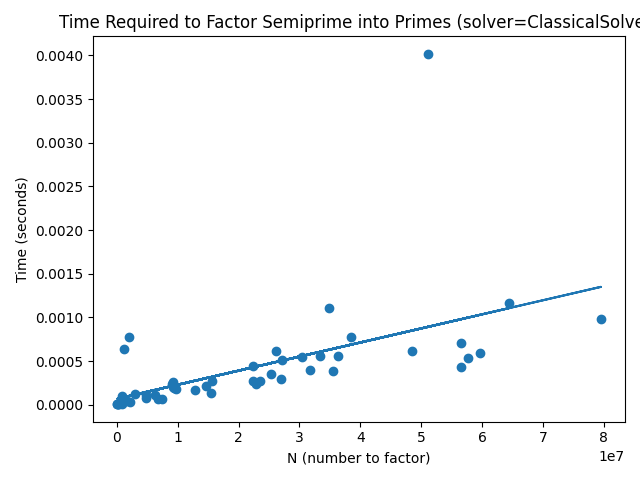
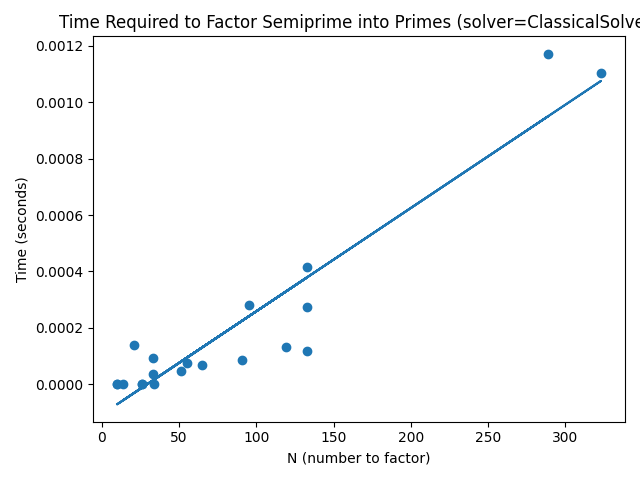
update solvers

diff --git a/src/classical/solver.py b/src/classical/solver.py
@@ -1,22 +1,74 @@
 """ Module for factoring semiprime integers using classical / non-quantum / brute force approach. 
 """
 import time 
-from math import sqrt
+from math import sqrt,gcd
 from base import Base
+import numpy as np 
+from random import randint 
 
 class ClassicalPrimeFactorization(Base):
     def __init__(self, name: str = 'ClassicalSolver', verbose: bool = False):
         super().__init__(name, verbose)
 
-    def factor(self, N):
-        """ Calculate prime factors of N """
-        start = time.time() 
-        p, q = None, None
-        for i in range(2, int(sqrt(N)) + 1):
-            if N % i == 0:
-                p = i 
-                q = N // p 
-                end = time.time()
-                elapsed = round(end - start, 6)
-                return {'N': N, 'factors': {'p': p, 'q': q}, 'elapsed_seconds': elapsed}
+    # def factor(self, N):
+    #     """ Calculate prime factors of N """
+    #     start = time.time() 
+    #     p, q = None, None
+    #     for i in range(2, int(sqrt(N)) + 1):
+    #         if N % i == 0:
+    #             p = i 
+    #             q = N // p 
+    #             end = time.time()
+    #             elapsed = round(end - start, 6)
+    #             return {'N': N, 'factors': {'p': p, 'q': q}, 'elapsed_seconds': elapsed}
      
+    def factor(self, N: int = None):
+        """ Classically run shor's algorithm """
+        factors_found = False 
+        start = time.time()
+        if N % 2 == 0: # first simply check if even. 
+            end = time.time() 
+            elapsed = round(end - start, 6)
+            factors = {
+                    'p': 2, 'q': N // 2
+                }
+            factors_found = True 
+
+        attempts = 0
+        while not factors_found:
+            # Continue until solved. 
+            attempts += 1
+            # Get an initial guess g that is coprime to N (gcd is 1)
+            g = randint(3, N-1)
+            while gcd(g, N) != 1:
+                g = randint(3, N-1)
+            self.info(f'attempt={attempts}, g={g}')
+            # Find period r of g^r mod N 
+            # (i.e., r is smallest number such that g^r = 1 (mod N))
+            z = list(range(N))
+            y = [g ** z0 % N for z0 in z]
+            r = z[y[1:].index(1)+1] 
+            self.info(f'r={r}->r/2={r/2.}->g**(r/2.)={g**(r/2.)}')
+            if r % 2 == 0: # continue. if odd, can't use r/2 exponent of g. 
+                # x = g^[r/2] (mod N)
+                x = (g ** (r / 2.)) % N
+                if ((x + 1) % N) != 0: # continue. if = 0, guess another g. 
+                    factors = {
+                        'p': gcd(int(x)+1, N),
+                        'q': gcd(int(x)-1, N)
+                    }
+                    end = time.time()
+                    elapsed = round(end - start, 6)
+                    factors_found = True
+        return {
+            'N': N, 
+            'factors': factors, 
+            'elapsed_seconds': elapsed
+        }
+         
+
+            
+
+
+
+        

diff --git a/src/qskt/qft.py b/src/qskt/qft.py
@@ -2,11 +2,13 @@
 from qiskit import QuantumCircuit
 from math import pi
 from base import Base
+from qiskit.circuit.library import QFT
 
 class QuantumFourierTransform(Base):
 
     def __init__(self, name: str = 'QFT', verbose: bool = False):
         super().__init__(name, verbose=verbose)
+    
 
     def qft_dagger(self, n):
         """Apply N-qubit QFTdagger to the first n qubits of a circuit.
@@ -48,4 +50,33 @@ class QuantumFourierTransform(Base):
         # circuit a name and then return it 
         circuit.name = "QFT†"
         return circuit
+
+    def apply_qft(self, num_qubits: int = 1, use_qiskit_lib: bool = False ):
+        """ This circuit is explained very clearly by Abraham Asfaw in his 
+        lecture at https://www.youtube.com/watch?v=pq2jkfJlLmY.
+        
+        """
+        if use_qiskit_lib:
+            return QFT(num_qubits=num_qubits)
+        circuit = QuantumCircuit(num_qubits)
+        for qubit in range(num_qubits):
+            # For each qubit x_1, x_2, ... x_num_qubits 
+            # apply a hadamard to the qubit
+            circuit.h(qubit)
+            for other_qubit in range(qubit+1, num_qubits):
+                # then apply a series of phases/rotations
+                # using controlled phase / unitary rotation / UROT_k
+                # gate that will apply phase conditionally
+                # depending on control qubit.
+                
+                # apply UROT_k (unitary rotation)
+                circuit.cu1(
+                    pi / (2 ** (other_qubit - qubit)), # phase to apply 
+                    other_qubit, # control qubit
+                    qubit # target qubit 
+                )
+        return circuit
     
+if __name__ == "__main__": 
+    qft = QuantumFourierTransform()
+    qft.apply_qft(num_qubits=4).draw(filename='qft-4-qubits.jpg')

diff --git a/src/qskt/solver.py b/src/qskt/solver.py
@@ -35,22 +35,21 @@ class QiskitShor(Base):
         factor_found = False 
         factors = None 
         start = time.time()
-        if N % 2 == 0:
+        if N % 2 == 0: # handle even N
             attempts = 1
             factors = {'p': 2, 'q': N // 2}
             factor_found = True 
             end = time.time() 
             elapsed = round(end - start, 6)
         
-        np.random.seed(1)
-        while not factor_found:
+        np.random.seed(1) # seed random number generator 
+        while not factor_found: # continue until factor found 
             attempts += 1
-            self.info(f'Attempt: {attempts}')
-            g = randint(2, N)
-            self.info(f'Guessed random initial number g={g} between 1 and N={N}')
-            if gcd(g, N) != 1:
-                self.info(f'gcd(g,N)=gcd({g},{N}) != 1. Retrying.')
-                factors = {'p': g, 'q': N // g}
+            g = randint(2, N)  # 2 inclusive to N exclusive 
+            self.info(f'Attempt={attempts}; guessed g={g}')
+            _gcd = gcd(g, N)
+            if _gcd != 1: 
+                factors = {'p': _gcd, 'q': N // _gcd}
                 factor_found = True 
                 end = time.time() 
                 elapsed = round(end - start, 6)

diff --git a/src/qskt/qpe.py b/src/qskt/qpe.py
@@ -101,6 +101,7 @@ class QuantumPhaseEstimator(Base):
     def c_amodN(self, g: int = None, p: int = None, N: int = None):
         
         """  
+
         To create U^p where U is a unitary operator, we repeat the circuit p times. 
         This is specifically written to achieve controlled multiplication by g mod N.
         Where: 
@@ -112,9 +113,6 @@ class QuantumPhaseEstimator(Base):
         possible values of the power p, we are obtaining an output superposition of all 
         of the corresponding remainder values defined by r = g^p mod m*N, with N statically set as 15. 
         """
-        if gcd(g, N) != 1:
-            raise ValueError(f'g={g} and N={N} not coprime')
-
         # Create a circuit with 4 registers 
         # (a list of instructions bound to 4 registers)
         U = QuantumCircuit(4)

diff --git a/src/main.py b/src/main.py
@@ -75,8 +75,8 @@ if __name__ == "__main__":
     driver = Driver(verbose=True)
     semiprimes_generator = SemiPrimeGenerator()
     semiprimes = semiprimes_generator.get_n_semiprimes(
-        num_semiprimes=50,
-        upper_bound=10000
+        num_semiprimes=20,
+        upper_bound=25
     )
     
     # run classic implementation 
@@ -85,8 +85,8 @@ if __name__ == "__main__":
         plot_results=True
     )
 
-    # run qiskit implementation
-    driver.run_qiskit_implementation(
-        semiprimes=[15],
-        plot_results=True
-    )
+    # # run qiskit implementation
+    # driver.run_qiskit_implementation(
+    #     semiprimes=[15],
+    #     plot_results=True
+    # )

diff --git a/src/classical/testing.py b/src/classical/testing.py
@@ -1,0 +1,9 @@
+import numpy as np 
+pi = np.pi 
+for y in range(15): # N - 1, N = 2^n, n = num qubits 
+    coeff = np.exp(-1j*1*pi/8 * y) + \
+            np.exp(-1j*5*pi/8 * y) + \
+            np.exp(-1j*9*pi/8 * y) + \
+            np.exp(-1j*13*pi/8 * y) 
+    if abs(coeff) < 1e-10: coeff=0
+    print(y,coeff)
